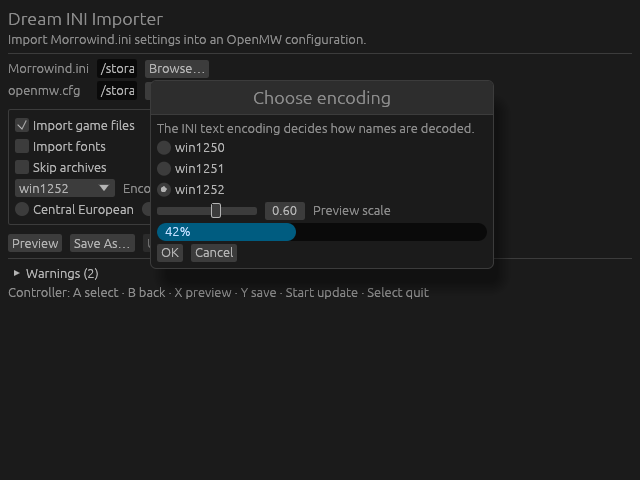
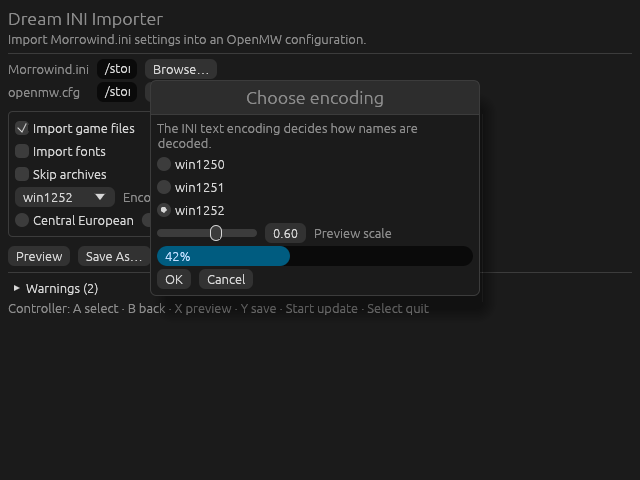
Update egui and prepare 2.0.0 release

diff --git a/src/renderer/egui_frame.rs b/src/renderer/egui_frame.rs
@@ -110,12 +110,13 @@ impl SoftwareRenderer {
             max_texture_side: Some(1024),
             ..Default::default()
         };
-        let output = frame.context.run_ui(raw_input, run_ui);
+        let mut output = frame.context.run_ui(raw_input, run_ui);
         let repaint_delay = root_repaint_delay(&output);
         let egui_run_elapsed = elapsed_micros(stage_start);
 
         let stage_start = log_timings.then(Instant::now);
-        let texture_delta_stats = self.apply_egui_textures(&output.textures_delta)?;
+        let had_texture_updates = !output.textures_delta.set.is_empty();
+        let texture_delta_stats = self.apply_egui_textures(&mut output.textures_delta)?;
         let texture_apply_elapsed = elapsed_micros(stage_start);
 
         let stage_start = log_timings.then(Instant::now);
@@ -133,8 +134,7 @@ impl SoftwareRenderer {
         );
 
         let stage_start = log_timings.then(Instant::now);
-        let unchanged =
-            self.frame_is_unchanged(surface_resized, &output.textures_delta, &primitives);
+        let unchanged = self.frame_is_unchanged(surface_resized, had_texture_updates, &primitives);
         let collect_stats = !unchanged && should_collect_deep_stats(frame.log_render_stats);
         let mut primitive_stats = collect_stats.then(PrimitiveStats::default);
         let mut raster_stats = collect_stats.then(RasterStats::default);
@@ -161,10 +161,10 @@ impl SoftwareRenderer {
             raster_stats.as_ref(),
             raster_timings.as_ref(),
         );
-        rasterize_result.inspect_err(|_| self.free_egui_textures(&output.textures_delta.free))?;
-
         let stage_start = log_timings.then(Instant::now);
         self.free_egui_textures(&output.textures_delta.free);
+        output.textures_delta.clear();
+        rasterize_result?;
         let texture_free_elapsed = elapsed_micros(stage_start);
         let texture_evidence = self.texture_evidence(&texture_delta_stats);
         let total_elapsed = elapsed_micros(total_start);
@@ -192,17 +192,18 @@ impl SoftwareRenderer {
     /// are freed now because the frame ends here.
     fn apply_egui_textures(
         &mut self,
-        delta: &egui::TexturesDelta,
+        delta: &mut egui::TexturesDelta,
     ) -> io::Result<TextureDeltaStats> {
         self.textures.apply(delta).inspect_err(|_| {
             self.previous_frame_valid = false;
             self.free_egui_textures(&delta.free);
+            delta.clear();
         })
     }
 
     /// Frees the textures egui released this frame. egui names them only once, so every way out
     /// of a frame frees them, failed frames included.
-    fn free_egui_textures(&mut self, released: &[egui::TextureId]) {
+    fn free_egui_textures<'a>(&mut self, released: impl IntoIterator<Item = &'a egui::TextureId>) {
         for &id in released {
             self.textures.free_egui(id);
         }
@@ -211,13 +212,13 @@ impl SoftwareRenderer {
     fn frame_is_unchanged(
         &self,
         surface_resized: bool,
-        textures_delta: &egui::TexturesDelta,
+        had_texture_updates: bool,
         primitives: &[egui::ClippedPrimitive],
     ) -> bool {
         self.skip_unchanged_frames
             && self.previous_frame_valid
             && !surface_resized
-            && textures_delta.set.is_empty()
+            && !had_texture_updates
             && same_primitives(&self.previous_primitives, primitives)
     }
 
@@ -969,7 +970,7 @@ mod tests {
         renderer.surface.clear([0, 0, 0, 255]);
         renderer
             .textures
-            .apply(&texture_delta(texture_id))
+            .apply(&mut texture_delta(texture_id))
             .expect("texture");
         let mesh = textured_quad_mesh(texture_id);
         let mut stats = PrimitiveStats::default();
@@ -998,7 +999,7 @@ mod tests {
         renderer.surface.clear([0, 0, 0, 255]);
         renderer
             .textures
-            .apply(&texture_delta(texture_id))
+            .apply(&mut texture_delta(texture_id))
             .expect("texture");
         let mut mesh = textured_quad_mesh(texture_id);
         mesh.vertices[3].uv = egui::pos2(0.75, 1.0);
@@ -1082,7 +1083,7 @@ mod tests {
         renderer.surface.clear([0, 0, 0, 255]);
         renderer
             .textures
-            .apply(&texture_delta(texture_id))
+            .apply(&mut texture_delta(texture_id))
             .expect("texture");
         let mesh = solid_fan_mesh(texture_id, [128, 32, 0, 128]);
         let clip_rect = egui::Rect::from_min_max(egui::Pos2::ZERO, egui::pos2(12.0, 12.0));
@@ -1134,7 +1135,7 @@ mod tests {
         renderer.surface.clear([0, 0, 0, 255]);
         renderer
             .textures
-            .apply(&texture_delta(texture_id))
+            .apply(&mut texture_delta(texture_id))
             .expect("texture");
         let mesh = too_short_mixed_triangle_mesh(texture_id);
         let clip_rect = egui::Rect::from_min_max(egui::Pos2::ZERO, egui::pos2(12.0, 12.0));
@@ -1249,7 +1250,7 @@ mod tests {
         renderer.surface.clear([0, 0, 0, 255]);
         renderer
             .textures
-            .apply(&texture_delta(texture_id))
+            .apply(&mut texture_delta(texture_id))
             .expect("texture");
         let clip_rect = egui::Rect::from_min_max(egui::Pos2::ZERO, egui::pos2(12.0, 12.0));
 
@@ -1293,7 +1294,7 @@ mod tests {
         renderer.surface.clear([0, 0, 0, 255]);
         renderer
             .textures
-            .apply(&texture_delta(texture_id))
+            .apply(&mut texture_delta(texture_id))
             .expect("texture");
         let mesh = solid_fan_mesh(texture_id, [128, 32, 0, 128]);
         let clip = clip_bounds(12, 12);
@@ -1533,7 +1534,7 @@ mod tests {
         renderer.surface.clear([0, 0, 0, 255]);
         renderer
             .textures
-            .apply(&solid_texture_delta(texture_id, Color::WHITE))
+            .apply(&mut solid_texture_delta(texture_id, Color::WHITE))
             .expect("texture");
         renderer
     }
@@ -1695,22 +1696,36 @@ mod tests {
             ],
         );
         egui::TexturesDelta {
-            set: vec![(
+            set: [(
                 texture_id,
-                egui::epaint::ImageDelta::full(image, egui::TextureOptions::NEAREST),
-            )],
-            free: Vec::new(),
+                [egui::epaint::ImageDelta::full(
+                    image,
+                    egui::TextureOptions::NEAREST,
+                )]
+                .into_iter()
+                .collect(),
+            )]
+            .into_iter()
+            .collect(),
+            free: [].into_iter().collect(),
         }
     }
 
     fn solid_texture_delta(texture_id: egui::TextureId, color: Color) -> egui::TexturesDelta {
         let image = egui::ColorImage::new([2, 2], vec![color.to_egui(); 4]);
         egui::TexturesDelta {
-            set: vec![(
+            set: [(
                 texture_id,
-                egui::epaint::ImageDelta::full(image, egui::TextureOptions::NEAREST),
-            )],
-            free: Vec::new(),
+                [egui::epaint::ImageDelta::full(
+                    image,
+                    egui::TextureOptions::NEAREST,
+                )]
+                .into_iter()
+                .collect(),
+            )]
+            .into_iter()
+            .collect(),
+            free: [].into_iter().collect(),
         }
     }
 

diff --git a/src/texture/egui_textures.rs b/src/texture/egui_textures.rs
@@ -28,12 +28,24 @@ impl TextureId {
 }
 
 impl TextureStore {
-    pub(crate) fn apply(&mut self, delta: &egui::TexturesDelta) -> io::Result<TextureDeltaStats> {
+    pub(crate) fn apply(
+        &mut self,
+        delta: &mut egui::TexturesDelta,
+    ) -> io::Result<TextureDeltaStats> {
         let mut stats = TextureDeltaStats::default();
-        for (id, image_delta) in &delta.set {
-            stats.record_set(self.set(*id, image_delta)?);
+        let mut error = None;
+        for (id, image_deltas) in std::mem::take(&mut delta.set) {
+            for image_delta in image_deltas {
+                match self.set(id, &image_delta) {
+                    Ok(set_stats) => stats.record_set(set_stats),
+                    Err(err) => {
+                        error.get_or_insert(err);
+                        break;
+                    }
+                }
+            }
         }
-        Ok(stats)
+        error.map_or(Ok(stats), Err)
     }
 
     fn set(
@@ -347,25 +359,26 @@ mod tests {
         let id = egui::TextureId::Managed(0);
         let full_image = egui::ColorImage::new([2, 2], vec![egui::Color32::WHITE; 4]);
         let partial_image = egui::ColorImage::new([1, 1], vec![egui::Color32::BLACK]);
-        let delta = egui::TexturesDelta {
-            set: vec![
-                (
-                    id,
+        let mut delta = egui::TexturesDelta {
+            set: [(
+                id,
+                [
                     egui::epaint::ImageDelta::full(full_image, egui::TextureOptions::NEAREST),
-                ),
-                (
-                    id,
                     egui::epaint::ImageDelta::partial(
                         [1, 1],
                         partial_image,
                         egui::TextureOptions::NEAREST,
                     ),
-                ),
-            ],
-            free: Vec::new(),
+                ]
+                .into_iter()
+                .collect(),
+            )]
+            .into_iter()
+            .collect(),
+            free: [].into_iter().collect(),
         };
 
-        let stats = store.apply(&delta).expect("texture delta applies");
+        let stats = store.apply(&mut delta).expect("texture delta applies");
 
         assert_eq!(stats.set_count, 2);
         assert_eq!(stats.full_upload_count, 1);

diff --git a/benches/scenes/mod.rs b/benches/scenes/mod.rs
@@ -66,7 +66,7 @@ impl Default for SceneState {
 const ENCODINGS: [&str; 3] = ["win1250", "win1251", "win1252"];
 
 fn form_ui(ui: &mut egui::Ui, state: &mut SceneState) {
-    egui::CentralPanel::default().show_inside(ui, |ui| {
+    egui::CentralPanel::default().show(ui, |ui| {
         ui.heading("Dream INI Importer");
         ui.label("Import Morrowind.ini settings into an OpenMW configuration.");
         ui.separator();
@@ -145,7 +145,7 @@ fn preview_text() -> String {
 }
 
 fn preview_ui(ui: &mut egui::Ui) {
-    egui::CentralPanel::default().show_inside(ui, |ui| {
+    egui::CentralPanel::default().show(ui, |ui| {
         ui.horizontal(|ui| {
             ui.heading("Preview");
             ui.with_layout(egui::Layout::right_to_left(egui::Align::Center), |ui| {

diff --git a/tests/golden.rs b/tests/golden.rs
@@ -19,9 +19,9 @@ use scenes::{Scene, SceneState, render_frame, settled_renderer, surface_hash};
 
 fn expected_hash(scene: Scene) -> u64 {
     match scene {
-        Scene::Form => 0xaef8_18bc_3738_fee7,
-        Scene::Preview => 0x9a8d_1786_69fb_7502,
-        Scene::Window => 0xcb80_d9fe_542f_9c3c,
+        Scene::Form => 0x4c9f_99a1_b186_df42,
+        Scene::Preview => 0x9578_1e3a_b184_bbba,
+        Scene::Window => 0xdbcc_ccf6_9b16_6888,
     }
 }
 

diff --git a/src/texture.rs b/src/texture.rs
@@ -62,6 +62,8 @@ impl fmt::Display for TextureId {
 }
 
 fn issue_from(counter: &AtomicU64) -> Option<u64> {
+    // `try_update` replaces this method on newer Rust, but requires a newer MSRV.
+    #[allow(deprecated)]
     counter
         .fetch_update(Ordering::Relaxed, Ordering::Relaxed, |next| {
             next.checked_add(1)

diff --git a/content/docs/platforms.md b/content/docs/platforms.md
@@ -79,13 +79,13 @@ cargo clippy --target aarch64-unknown-linux-gnu --all-targets --all-features \
 
 | Feature | Default | Adds |
 |---|---|---|
-| `egui` | No | The [`egui_adapter`](@/docs/api/egui-adapter.md) module, `SoftwareRenderer::render_egui` and `set_skip_unchanged_frames`, and a dependency on egui 0.34 |
+| `egui` | No | The [`egui_adapter`](@/docs/api/egui-adapter.md) module, `SoftwareRenderer::render_egui` and `set_skip_unchanged_frames`, and a dependency on egui 0.37 |
 
 Without it the crate has no dependencies.
 
 ## Rust
 
-Rust 1.92 or newer, declared as `rust-version` in `Cargo.toml`. That is egui 0.34's floor, and it
+Rust 1.95 or newer, declared as `rust-version` in `Cargo.toml`. That is egui 0.37's floor, and it
 applies with or without the `egui` feature.
 
 `Error` is `#[non_exhaustive]`: match it with a wildcard arm.
@@ -102,7 +102,7 @@ Every push runs [StroggForge](https://github.com/DreamWeave-MP/StroggForge)'s li
   Apple silicon, where the NEON kernels run;
 - Clippy at the pedantic level with every warning an error, and `rustfmt`;
 - `cargo audit` against the RustSec advisory database;
-- `cargo check` on Rust 1.92, the declared minimum;
+- `cargo check` on Rust 1.95, the declared minimum;
 - a dry run of the crates.io publish.
 
 A daily workflow repeats `rustfmt`, Clippy and `cargo audit` against the latest stable Rust.

diff --git a/README.md b/README.md
@@ -19,12 +19,12 @@ egui interface through it on handhelds with no usable GPU.
 cargo add dream-soft-render
 ```
 
-Rust 1.92 or newer. Without features the crate has no dependencies. The egui adapter is the `egui`
+Rust 1.95 or newer. Without features the crate has no dependencies. The egui adapter is the `egui`
 feature:
 
 ```toml
 [dependencies]
-dream-soft-render = { version = "1", features = ["egui"] }
+dream-soft-render = { version = "2", features = ["egui"] }
 ```
 
 ## Drawing
@@ -85,7 +85,7 @@ use dream_soft_render::egui_adapter::{RenderFrame, egui};
 
 fn render_ui(renderer: &mut SoftwareRenderer, context: &egui::Context) -> std::io::Result<bool> {
     let outcome = renderer.render_egui(640, 480, &RenderFrame::new(context), |ui| {
-        egui::CentralPanel::default().show_inside(ui, |ui| {
+        egui::CentralPanel::default().show(ui, |ui| {
             ui.heading("Import settings");
             ui.label("Choose Morrowind.ini to continue.");
         });

diff --git a/content/docs/egui.md b/content/docs/egui.md
@@ -12,11 +12,11 @@ With the `egui` feature, a `SoftwareRenderer` renders egui frames into the same 
 
 ```toml
 [dependencies]
-dream-soft-render = { version = "1", features = ["egui"] }
+dream-soft-render = { version = "2", features = ["egui"] }
 ```
 
 The crate re-exports the egui it is built against as `dream_soft_render::egui_adapter::egui`,
-egui 0.34. Use it, or depend on the same egui version yourself; types from two versions of egui
+egui 0.37. Use it, or depend on the same egui version yourself; types from two versions of egui
 do not mix.
 
 ## One frame
@@ -34,7 +34,7 @@ fn render_ui(
         480,
         &RenderFrame::new(context),
         |ui| {
-            egui::CentralPanel::default().show_inside(ui, |ui| {
+            egui::CentralPanel::default().show(ui, |ui| {
                 ui.heading("Import settings");
                 ui.label("Choose Morrowind.ini to continue.");
             });

diff --git a/content/docs/api/_index.md b/content/docs/api/_index.md
@@ -66,7 +66,7 @@ fn main() -> Result<(), Error> {
 
 | Feature | Default | Adds |
 |---|---|---|
-| `egui` | No | `SoftwareRenderer::render_egui`, `SoftwareRenderer::set_skip_unchanged_frames`, the `egui_adapter` module, and egui 0.34 as a dependency |
+| `egui` | No | `SoftwareRenderer::render_egui`, `SoftwareRenderer::set_skip_unchanged_frames`, the `egui_adapter` module, and egui 0.37 as a dependency |
 
 ## Threads
 

diff --git a/content/docs/start-here.md b/content/docs/start-here.md
@@ -16,7 +16,7 @@ an image file you can open. Nothing here needs a GPU, a window or egui.
 cargo add dream-soft-render
 ```
 
-It needs Rust 1.92 or newer. Without features it has no dependencies at all. The egui adapter is
+It needs Rust 1.95 or newer. Without features it has no dependencies at all. The egui adapter is
 the `egui` feature; [Hosting egui](@/docs/egui.md) starts there.
 
 ## Draw a frame

diff --git a/content/docs/api/egui-adapter.md b/content/docs/api/egui-adapter.md
@@ -146,7 +146,7 @@ such as `16ms`.
 
 {{ api_signature(value="pub use egui;") }}
 
-The egui crate this one is built against, 0.34. Using it through the re-export keeps your egui
+The egui crate this one is built against, 0.37. Using it through the re-export keeps your egui
 types and the renderer's the same version.
 
 ## SampledRectModulatedWorkload
